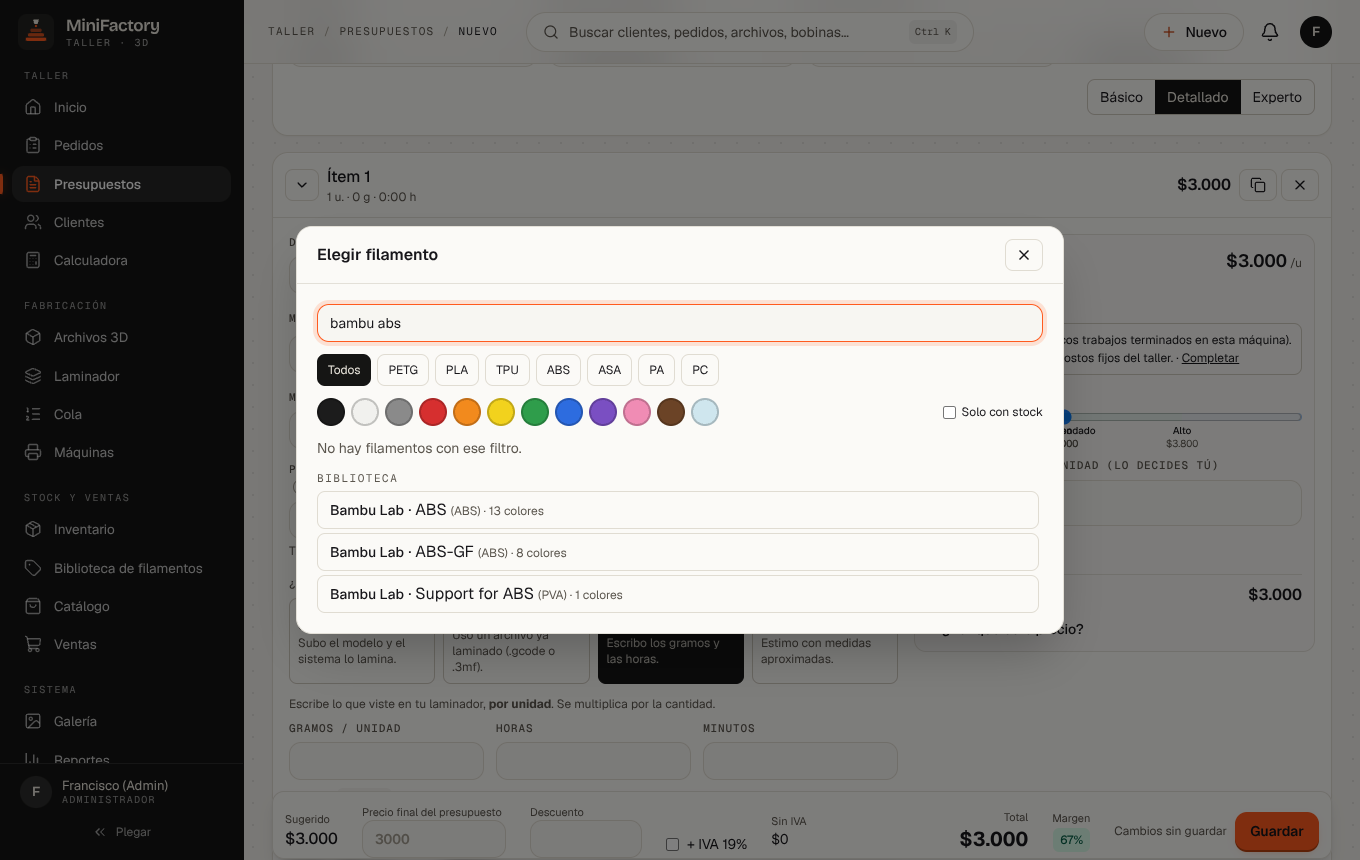
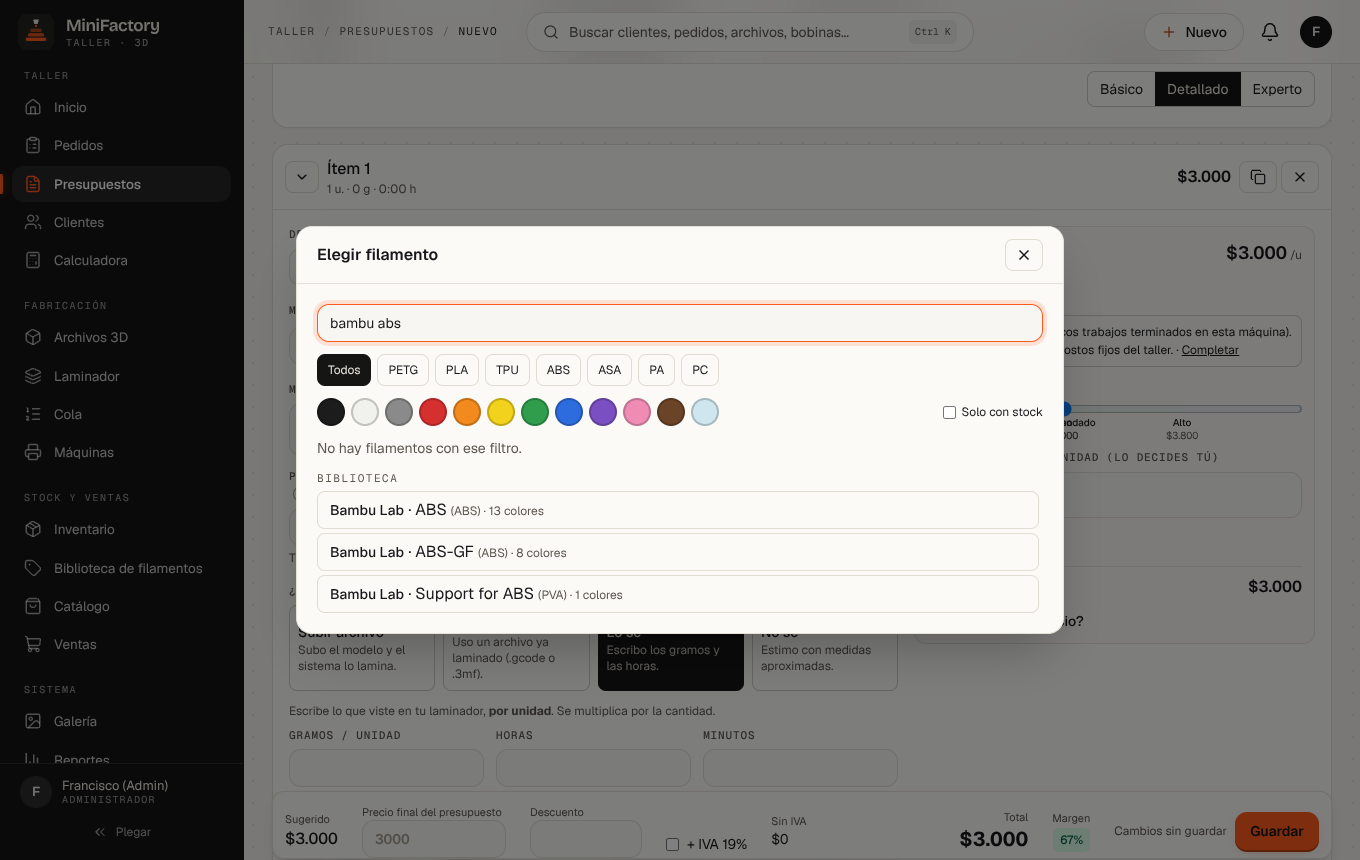
feat(filamentos): selector de color pedido sin texto libre obligatorio
El color pedido de la línea pasa de un campo de texto a un selector: colores en
stock del mismo tipo (cambia el material), paleta de colores comunes o nombre
libre. Un color que no se tiene pasa al genérico del tipo, así el material y el
costo no contradicen el color pedido. Arregla además el fondo del panel y el
texto cortado del botón de material.

Claude-Session: https://claude.ai/code/session_01KWSH1rJVKWyAthAGpDgZwy

diff --git a/src/components/filament-picker.tsx b/src/components/filament-picker.tsx
@@ -50,7 +50,7 @@ export function FilamentPicker({ materials, value, onChange, tech = 'fdm', empty
   return (
     <>
       <button type="button" disabled={disabled} className={cn('input w-full text-left flex items-center gap-2 min-w-0', className)} onClick={() => setOpen(true)} aria-haspopup="dialog" aria-label={ariaLabel ? `${ariaLabel}: ${shown?.name ?? emptyLabel ?? t('picker.choose')}` : undefined} data-testid={testId}>
-        {shown ? <><span className="h-4 w-4 rounded-full border border-black/20 shrink-0" style={{ background: shown.hex }} aria-hidden /><span className="truncate flex-1">{shown.name}</span><span className="muted text-xs shrink-0">{shown.tag}</span></> : <span className="truncate flex-1 muted">{emptyLabel ?? t('picker.choose')}</span>}
+        {shown ? <><span className="h-4 w-4 rounded-full border border-black/20 shrink-0" style={{ background: shown.hex }} aria-hidden /><span className="flex-1 min-w-0 leading-tight py-0.5"><span className="block truncate">{shown.name}</span><span className="block truncate muted text-[11px]">{shown.tag}</span></span></> : <span className="truncate flex-1 muted">{emptyLabel ?? t('picker.choose')}</span>}
         <span aria-hidden className="muted shrink-0">▾</span>
       </button>
       {open && <PickerDialog pool={pool} value={value} emptyLabel={emptyLabel} gramsNeeded={gramsNeeded} hint={hint} showCost={showCost} showProfile={showProfile} library={library} testId={testId} onClose={() => setOpen(false)} onPick={choose} onAdded={(a) => { setAdded(a); choose(a.id); }} />}
@@ -76,7 +76,7 @@ function PickerDialog({ pool, value, emptyLabel, gramsNeeded, hint, showCost, sh
     const short = gramsNeeded && !m.generic && m.availableG < gramsNeeded ? gramsNeeded - Math.max(0, m.availableG) : 0;
     return (
       <button key={m.id} type="button" onClick={() => onPick(m.id, m)} aria-pressed={m.id === value} data-testid={testId ? `${testId}-opt` : undefined} data-material-id={m.id}
-        className={cn('w-full text-left flex items-center gap-2 rounded-lg border px-2.5 py-1.5 min-h-[40px] hover:bg-[var(--surface-2)]', m.id === value ? 'border-[var(--accent)] bg-[var(--accent-soft)]' : 'border-[var(--line)]')}>
+        className={cn('w-full text-left flex items-center gap-2 rounded-lg border px-2.5 py-1.5 min-h-[40px] hover:bg-slate-100 dark:hover:bg-slate-800', m.id === value ? 'border-[var(--accent)] bg-[var(--accent-soft)]' : 'border-[var(--line)]')}>
         <span className="h-5 w-5 rounded-full border border-black/20 shrink-0" style={{ background: m.hex }} aria-hidden />
         <span className="flex-1 min-w-0"><span className="block truncate text-sm">{m.generic ? `${m.type} ${m.colorName}`.replace('Genérico', '').trim() || m.type : m.colorName}{m.generic ? <span className="muted"> · {t('picker.genericTag')}</span> : null}</span>
           <span className="block muted text-xs truncate">{m.type}{showCost ? ` · ${t('picker.perKg', { price: money(m.costPerKg) })}` : ''}{showProfile && m.tech === 'fdm' && !m.filamentProfileId ? ` · ${t('picker.noProfile')}` : ''}</span></span>
@@ -92,14 +92,14 @@ function PickerDialog({ pool, value, emptyLabel, gramsNeeded, hint, showCost, sh
           <div className="space-y-3" data-testid={testId ? `${testId}-panel` : undefined}>
             <input className="input" value={q} onChange={(e) => setQ(e.target.value)} placeholder={t('picker.searchPlaceholder')} aria-label={t('picker.searchLabel')} data-testid="picker-search" />
             <div className="flex flex-wrap gap-1.5" role="group" aria-label={t('picker.typeFilter')}>
-              {[null, ...types].map((x) => <button key={x ?? 'all'} type="button" aria-pressed={type === x} className={cn('min-h-[32px] px-2.5 rounded-lg border text-xs', type === x ? 'bg-[var(--panel)] text-[var(--panel-ink)] border-transparent' : 'border-[var(--line)] hover:bg-[var(--surface-2)]')} onClick={() => setType(x)}>{x ?? t('picker.allTypes')}</button>)}
+              {[null, ...types].map((x) => <button key={x ?? 'all'} type="button" aria-pressed={type === x} className={cn('min-h-[32px] px-2.5 rounded-lg border text-xs', type === x ? 'bg-[var(--panel)] text-[var(--panel-ink)] border-transparent' : 'border-[var(--line)] hover:bg-slate-100 dark:hover:bg-slate-800')} onClick={() => setType(x)}>{x ?? t('picker.allTypes')}</button>)}
             </div>
             <div className="flex flex-wrap items-center gap-1.5" role="group" aria-label={t('picker.colorFilter')}>
               {COLOR_FAMILIES.map((f) => <button key={f} type="button" aria-pressed={family === f} aria-label={f} title={f} onClick={() => setFamily(family === f ? null : f)} className={cn('h-7 w-7 rounded-full border-2', family === f ? 'border-[var(--accent)] ring-2 ring-[var(--accent-line)]' : 'border-black/20')} style={{ background: FAMILY_HEX[f] }} />)}
               <label className="ml-auto flex items-center gap-1.5 text-xs"><input type="checkbox" checked={onlyStock} onChange={(e) => setOnlyStock(e.target.checked)} />{t('picker.onlyStock')}</label>
             </div>
             <div className="max-h-[48vh] overflow-auto space-y-3 pr-1" tabIndex={0}>
-              {emptyLabel !== undefined && !filtering && <button type="button" className={cn('w-full text-left rounded-lg border px-3 py-2 text-sm hover:bg-[var(--surface-2)]', value === '' ? 'border-[var(--accent)] bg-[var(--accent-soft)]' : 'border-[var(--line)]')} onClick={() => onPick('')} data-testid="picker-empty">{emptyLabel}</button>}
+              {emptyLabel !== undefined && !filtering && <button type="button" className={cn('w-full text-left rounded-lg border px-3 py-2 text-sm hover:bg-slate-100 dark:hover:bg-slate-800', value === '' ? 'border-[var(--accent)] bg-[var(--accent-soft)]' : 'border-[var(--line)]')} onClick={() => onPick('')} data-testid="picker-empty">{emptyLabel}</button>}
               {!filtering && recentMats.length > 0 && <section><h3 className="eyebrow mb-1">{t('picker.recents')}</h3><div className="grid gap-1">{recentMats.map(row)}</div></section>}
               {groups.map((g) => <section key={g.key}><h3 className="eyebrow mb-1">{g.title}</h3><div className="grid gap-1">{g.items.map(row)}</div></section>)}
               {list.length === 0 && <p className="muted text-sm">{t('picker.noResults')} {library && !q ? t('picker.noResultsLibrary') : ''}</p>}
@@ -123,7 +123,7 @@ function LibrarySearch({ q, onLine }: { q: string; onLine: (l: CatalogFilament) 
       {term.length < 2 ? <p className="muted text-xs">{t('picker.libraryHint')}</p>
         : busy && !res ? <p className="muted text-xs">{t('picker.librarySearching')}</p>
         : res && res.length === 0 ? <p className="muted text-xs">{t('picker.libraryNone')}</p>
-        : <div className="grid gap-1">{(res ?? []).map((f) => <button key={f.key} type="button" className="w-full text-left rounded-lg border border-[var(--line)] px-3 py-1.5 hover:bg-[var(--surface-2)]" onClick={() => void onLine(f)} data-testid="picker-library-line"><span className="font-medium text-sm">{f.brandName}</span> · {f.name} <span className="muted text-xs">({f.material}) · {t('picker.libraryLine', { colors: f.colorCount })}</span></button>)}</div>}
+        : <div className="grid gap-1">{(res ?? []).map((f) => <button key={f.key} type="button" className="w-full text-left rounded-lg border border-[var(--line)] px-3 py-1.5 hover:bg-slate-100 dark:hover:bg-slate-800" onClick={() => void onLine(f)} data-testid="picker-library-line"><span className="font-medium text-sm">{f.brandName}</span> · {f.name} <span className="muted text-xs">({f.material}) · {t('picker.libraryLine', { colors: f.colorCount })}</span></button>)}</div>}
     </section>
   );
 }
@@ -137,7 +137,7 @@ function LibraryColors({ state, setState, owned, onBack, onOwned, onAdd }: { sta
       <div className="flex gap-2"><button type="button" className="btn-ghost btn-sm" onClick={onBack}>← {t('picker.back')}</button><input className="input" value={q} onChange={(e) => setQ(e.target.value)} placeholder={t('picker.colorFilter')} aria-label={t('picker.colorFilter')} /></div>
       <ul className="grid sm:grid-cols-2 gap-1 max-h-[48vh] overflow-auto" tabIndex={0}>{colors.map((c) => {
         const own = mine.get(variantKey(state.line.key, c.id));
-        return <li key={c.id}><button type="button" className="w-full text-left flex items-center gap-2 rounded-lg border border-[var(--line)] px-2.5 py-1.5 min-h-[40px] hover:bg-[var(--surface-2)]" onClick={() => (own ? onOwned(own) : onAdd(c))} data-testid="picker-library-color">
+        return <li key={c.id}><button type="button" className="w-full text-left flex items-center gap-2 rounded-lg border border-[var(--line)] px-2.5 py-1.5 min-h-[40px] hover:bg-slate-100 dark:hover:bg-slate-800" onClick={() => (own ? onOwned(own) : onAdd(c))} data-testid="picker-library-color">
           <span className="h-5 w-5 rounded-full border border-black/20 shrink-0" style={{ background: c.hexes.length > 1 ? `linear-gradient(90deg, ${c.hexes.join(', ')})` : c.hex }} aria-hidden /><span className="flex-1 truncate text-sm">{c.name}</span>{own && <span className="muted text-xs shrink-0">{t('picker.libraryOwned')}</span>}</button></li>;
       })}</ul>
       {state.next && <button type="button" className="btn-ghost btn-sm" disabled={busy} onClick={async () => { setBusy(true); try { const r = await getJson<Page<CatalogVariant>>(`/api/catalog/filaments/${enc(state.line.key)}/variants?page=${state.next}&pageSize=100`); setState({ ...state, colors: [...state.colors, ...r.items], next: r.nextPage }); } finally { setBusy(false); } }}>{t('picker.libraryMore')}</button>}

diff --git a/src/components/color-field.tsx b/src/components/color-field.tsx
@@ -1,0 +1,46 @@
+'use client';
+import { useMemo, useState } from 'react';
+import { COLOR_FAMILIES, FAMILY_HEX, FAMILY_LABEL, colorChoices, type PickMaterial } from '@/lib/filament-pick';
+import { suggestHex } from '@/lib/catalog/colors';
+import { cn, grams } from '@/lib/format';
+import { useT } from '@/i18n/client';
+
+export interface ColorPatch { materialId?: string | null; color: string }
+
+/**
+ * Color pedido sin escribir: se elige entre lo que hay en stock del mismo tipo (cambia el material al de ese color),
+ * una paleta de colores comunes o un nombre libre. Un color que no se tiene pasa al genérico del tipo, así el costo y
+ * el material no contradicen el color pedido.
+ */
+export function ColorField({ materials, materialId, color, onPick, disabled, testId }: { materials: PickMaterial[]; materialId: string | null; color: string; onPick: (p: ColorPatch) => void; disabled?: boolean; testId?: string }) {
+  const t = useT(); const [open, setOpen] = useState(false); const [custom, setCustom] = useState('');
+  const cur = materials.find((m) => m.id === materialId);
+  const { stock, generic } = useMemo(() => colorChoices(materials, materialId), [materials, materialId]);
+  const hex = (stock.find((m) => m.colorName.toLowerCase() === color.trim().toLowerCase())?.hex) ?? (cur && !cur.generic && cur.colorName.toLowerCase() === color.trim().toLowerCase() ? cur.hex : null) ?? (color ? suggestHex(color) : null);
+  const other = (name: string) => { onPick({ materialId: cur && !cur.generic && generic ? generic.id : undefined, color: name }); setOpen(false); setCustom(''); };
+  return (
+    <div className="relative" onKeyDown={(e) => { if (e.key === 'Escape') setOpen(false); }} onBlur={(e) => { if (!e.currentTarget.contains(e.relatedTarget as Node | null)) setOpen(false); }}>
+      <button type="button" disabled={disabled} className="input w-full text-left flex items-center gap-2 min-w-0" aria-expanded={open} onClick={() => setOpen(!open)} data-testid={testId}>
+        {hex ? <span className="h-4 w-4 rounded-full border border-black/20 shrink-0" style={{ background: hex }} aria-hidden /> : <span className="h-4 w-4 rounded-full border border-dashed border-[var(--line)] shrink-0" aria-hidden />}
+        <span className={cn('truncate flex-1', !color && 'muted')}>{color || t('picker.colorAny')}</span><span aria-hidden className="muted shrink-0">▾</span>
+      </button>
+      {open && (
+        <div className="absolute z-30 left-0 top-full mt-1.5 w-[min(22rem,88vw)] card p-3 space-y-3 shadow-lg" data-testid={testId ? `${testId}-panel` : undefined}>
+          <section><h4 className="eyebrow mb-1.5">{t('picker.colorFromStock')}</h4>
+            {stock.length === 0 ? <p className="muted text-xs">{t('picker.colorNoStock')}</p> : <div className="flex flex-wrap gap-1.5">{stock.map((m) => (
+              <button key={m.id} type="button" onClick={() => { onPick({ materialId: m.id, color: m.colorName }); setOpen(false); }} aria-pressed={m.id === materialId} data-testid="color-stock"
+                className={cn('flex items-center gap-1.5 rounded-full border px-2.5 min-h-[32px] text-xs hover:bg-slate-100 dark:hover:bg-slate-800', m.id === materialId ? 'border-[var(--accent)] bg-[var(--accent-soft)]' : 'border-[var(--line)]')}>
+                <span className="h-3.5 w-3.5 rounded-full border border-black/20" style={{ background: m.hex }} aria-hidden />{m.colorName}<span className="muted">{grams(m.availableG)}</span></button>))}</div>}
+          </section>
+          <section><h4 className="eyebrow mb-0.5">{t('picker.colorOther')}</h4><p className="muted text-xs mb-1.5">{t('picker.colorOtherHint')}</p>
+            <div className="flex flex-wrap gap-1.5">{COLOR_FAMILIES.map((f) => <button key={f} type="button" onClick={() => other(FAMILY_LABEL[f])} aria-label={FAMILY_LABEL[f]} title={FAMILY_LABEL[f]} data-testid="color-palette" className={cn('h-8 w-8 rounded-full border-2', color.toLowerCase() === FAMILY_LABEL[f].toLowerCase() ? 'border-[var(--accent)] ring-2 ring-[var(--accent-line)]' : 'border-black/20')} style={{ background: FAMILY_HEX[f] }} />)}</div>
+            <form className="flex gap-2 mt-2" onSubmit={(e) => { e.preventDefault(); if (custom.trim()) other(custom.trim()); }}>
+              <input className="input !min-h-[34px]" value={custom} onChange={(e) => setCustom(e.target.value)} placeholder={t('picker.colorName')} aria-label={t('picker.colorName')} data-testid="color-custom" />
+              <button type="submit" className="btn-ghost btn-sm" disabled={!custom.trim()}>{t('picker.colorApply')}</button>
+            </form>
+          </section>
+          {color && <button type="button" className="btn-ghost btn-sm" onClick={() => { onPick({ color: '' }); setOpen(false); }}>{t('picker.colorClear')}</button>}
+        </div>)}
+    </div>
+  );
+}

diff --git a/src/components/line-editor.tsx b/src/components/line-editor.tsx
@@ -18,6 +18,7 @@ import { ConfidenceBadge, ExpertTools, Hint, PriceBand, WarningList, WhyPrice, a
 import { profileDesc, profileName, tagName } from '@/lib/calc-presets';
 import { useT } from '@/i18n/client';
 import { FilamentPicker } from './filament-picker';
+import { ColorField } from './color-field';
 import { tOr } from '@/i18n/translate';
 import { NozzleMismatch, ProcessOptions } from './process-options';
 
@@ -198,7 +199,7 @@ export function LineEditor({ it, onChange, onRemove, onDuplicate, ctx, models, s
                 )}
                 <div className="grid sm:grid-cols-4 gap-3">
                   <div className="block"><span className="label">{t('common.material')}</span><FilamentPicker materials={mats} value={it.materialId ?? ''} disabled={dis} tech={mach?.tech === 'FDM' ? 'fdm' : mach?.tech === 'SLA' ? 'resina' : null} gramsNeeded={it.gramsTotal || undefined} ariaLabel={t('common.material')} testId="line-material" onChange={(id, picked) => { const m = picked ?? mats.find((x) => x.id === id); onChange({ materialId: id || null, color: m && !m.generic ? m.colorName : it.color, origin: { ...it.origin, stale: it.mode === 'auto' && !!it.origin.runId } }); }} /></div>
-                  <label className="block"><span className="label">{t('buy.requestedColor')}</span><input className="input" value={it.color ?? ''} disabled={dis} placeholder={t('buy.requestedColorHint')} onChange={(e) => onChange({ color: e.target.value })} data-testid="line-color" /></label>
+                  <div className="block"><span className="label">{t('buy.requestedColor')}</span><ColorField materials={mats} materialId={it.materialId} color={it.color ?? ''} disabled={dis} testId="line-color" onPick={(p) => onChange({ color: p.color, ...(p.materialId !== undefined ? { materialId: p.materialId, origin: { ...it.origin, stale: it.mode === 'auto' && !!it.origin.runId } } : {}) })} /></div>
                   {(det || it.mode === 'auto') && <label className="block"><span className="label">{t('common.machine')}</span><select className="input" value={it.machineId ?? ''} disabled={dis} onChange={(e) => { const m = ctx.machines.find((x) => x.id === e.target.value); onChange({ machineId: e.target.value || null, processProfileId: m?.defaultProcessProfileId ?? it.processProfileId }); }} data-testid="line-machine">{ctx.machines.map((m) => <option key={m.id} value={m.id}>{m.name}{m.simulated && !/simula/i.test(m.name) ? ` (${t('slicer.simulatedLower')})` : ''}</option>)}</select></label>}
                   {(det || it.mode === 'auto') && <label className="block"><span className="label">{t('calculator.processProfile')}</span><select className="input" value={it.processProfileId ?? ''} disabled={dis} onChange={(e) => onChange({ processProfileId: e.target.value || null })} data-testid="line-process"><option value="">—</option><ProcessOptions profiles={ctx.profiles.filter((p) => p.type === 'process')} machineNozzle={ctx.machines.find((x) => x.id === it.machineId)?.nozzle ?? null} compatibleIds={(ctx.setups.find((x) => x.machineId === it.machineId && x.active) ?? ctx.setups.find((x) => x.machineId === it.machineId))?.compatibleProcessIds} /></select><NozzleMismatch processNozzle={ctx.profiles.find((p) => p.id === it.processProfileId)?.nozzle} machineNozzle={ctx.machines.find((x) => x.id === it.machineId)?.nozzle} /></label>}
                   {det && (

diff --git a/src/lib/filament-pick.ts b/src/lib/filament-pick.ts
@@ -74,3 +74,16 @@ export function groupMaterials<M extends PickMaterial>(list: M[], genericTitle: 
 
 /** Tipos presentes en la lista, en el orden en que aparecen (los genéricos ya traen todos los habituales). */
 export function typesOf(list: Array<Pick<PickMaterial, 'type'>>): string[] { return [...new Set(list.map((m) => m.type))]; }
+
+/** Nombre para mostrar de cada familia de color (también es el color pedido que se guarda al elegir de la paleta). */
+export const FAMILY_LABEL: Record<ColorFamily, string> = { negro: 'Negro', blanco: 'Blanco', gris: 'Gris', rojo: 'Rojo', naranja: 'Naranja', amarillo: 'Amarillo', verde: 'Verde', azul: 'Azul', morado: 'Morado', rosa: 'Rosa', marron: 'Marrón', transparente: 'Transparente' };
+
+export interface ColorChoices<M> { /** colores del mismo tipo que hay en stock, con más gramos primero y sin repetir nombre */ stock: M[]; /** genérico del mismo tipo: sirve para pedir un color que no se tiene */ generic: M | null }
+/** Opciones de color para un material elegido: lo que hay en stock de su tipo y el genérico al que pasar si se pide otro color. */
+export function colorChoices<M extends PickMaterial>(list: M[], currentId: string | null, max = 10): ColorChoices<M> {
+  const cur = list.find((m) => m.id === currentId); if (!cur) return { stock: [], generic: null };
+  const same = list.filter((m) => m.tech === cur.tech && norm(m.type) === norm(cur.type));
+  const seen = new Set<string>(); const stock: M[] = [];
+  for (const m of [...same].filter((x) => !x.generic && x.availableG > 0).sort((a, b) => b.availableG - a.availableG)) { const k = norm(m.colorName); if (!seen.has(k)) { seen.add(k); stock.push(m); } }
+  return { stock: stock.slice(0, max), generic: same.find((m) => m.generic) ?? null };
+}

diff --git a/tests/e2e/25-selector-filamento.spec.ts b/tests/e2e/25-selector-filamento.spec.ts
@@ -19,7 +19,17 @@ test.describe('Selector de filamento', () => {
     await dlg.locator('[data-material-id]').first().click();
     await expect(dlg).toBeHidden();
     await expect(l1.getByTestId('line-material')).toContainText('eSun');
-    await expect(l1.getByTestId('line-color')).toHaveValue('Transparente');
+    await expect(l1.getByTestId('line-color')).toContainText('Transparente');
+    // color: de tu stock (cambia el material) o uno arbitrario (pasa al genérico del tipo)
+    await l1.getByTestId('line-color').click();
+    await shot(page, '64-selector-color');
+    await l1.getByTestId('color-palette').nth(3).click(); // rojo, que no hay en PETG: pasa al genérico
+    await expect(l1.getByTestId('line-color')).toContainText('Rojo');
+    await expect(l1.getByTestId('line-material')).toContainText('PETG');
+    await expect(l1.getByTestId('line-material')).toContainText('sin color');
+    await l1.getByTestId('line-color').click();
+    await l1.getByTestId('color-custom').fill('Rojo mate'); await l1.getByTestId('color-custom').press('Enter');
+    await expect(l1.getByTestId('line-color')).toContainText('Rojo mate');
   });
 
   test('agrega un color de la Biblioteca sin stock y con stock, y queda elegido', async ({ page }) => {

diff --git a/tests/unit/filament-pick.test.ts b/tests/unit/filament-pick.test.ts
@@ -51,3 +51,15 @@ describe('filament-pick: grupos', () => {
     expect(g[0].items.map((x) => x.id)).toEqual(['a', 'b']);
   });
 });
+
+describe('filament-pick: opciones de color', () => {
+  it('ofrece los colores en stock del mismo tipo (más gramos primero) y el genérico para otro color', async () => {
+    const { colorChoices } = await import('@/lib/filament-pick');
+    const l = [...LIST, m({ id: 'e', manufacturer: 'Grilon3', line: 'PLA', colorName: 'Negro', availableG: 100 }), m({ id: 'f', manufacturer: 'Grilon3', line: 'PLA', colorName: 'Verde', hex: '#2f9d4b', availableG: 2000 })];
+    const c = colorChoices(l, 'a');
+    expect(c.stock.map((x) => x.id)).toEqual(['f', 'a']); // PLA con stock: Verde (2000), Negro de Bambu (640); el Negro de Grilon3 se omite por repetido
+    expect(c.generic?.id).toBe('g-pla');
+    expect(colorChoices(l, null)).toEqual({ stock: [], generic: null });
+    expect(colorChoices(l, 'c').generic).toBeNull(); // no hay PETG genérico en la lista
+  });
+});

diff --git a/src/i18n/es/picker.ts b/src/i18n/es/picker.ts
@@ -44,4 +44,12 @@ export const picker = {
   boughtHint: '¿Lo acabas de comprar? Mejor registra la compra: el costo real sale de ella.',
   registerPurchase: 'Registrar compra',
   clear: 'Quitar',
+  colorAny: 'Elegir color',
+  colorFromStock: 'De tu stock',
+  colorOther: 'Otro color (no lo tienes)',
+  colorOtherHint: 'Se cotiza con el material genérico del mismo tipo.',
+  colorName: 'O escribe el nombre',
+  colorApply: 'Usar',
+  colorClear: 'Sin color definido',
+  colorNoStock: 'No tienes colores de este tipo en stock.',
 } as const;

diff --git a/src/i18n/en/picker.ts b/src/i18n/en/picker.ts
@@ -44,4 +44,12 @@ export const picker = {
   boughtHint: 'Just bought it? Better to record the purchase: the real cost comes from it.',
   registerPurchase: 'Record purchase',
   clear: 'Clear',
+  colorAny: 'Choose color',
+  colorFromStock: 'From your stock',
+  colorOther: 'Other color (not in stock)',
+  colorOtherHint: 'It is priced with the generic material of the same type.',
+  colorName: 'Or type the name',
+  colorApply: 'Use',
+  colorClear: 'No color set',
+  colorNoStock: 'You have no colors of this type in stock.',
 } as const;
